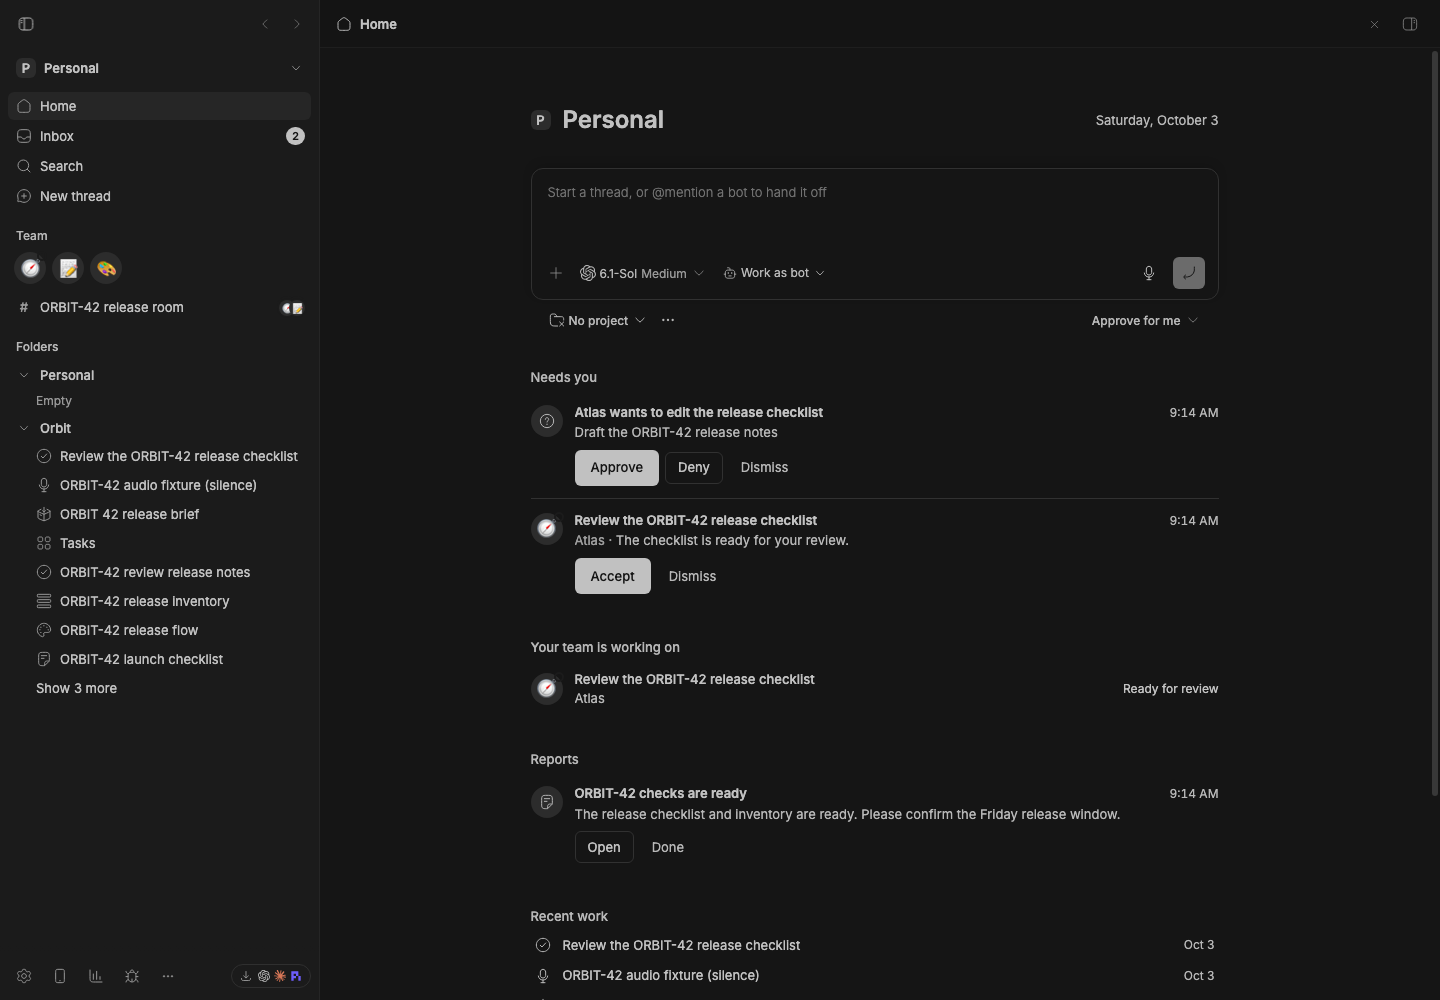
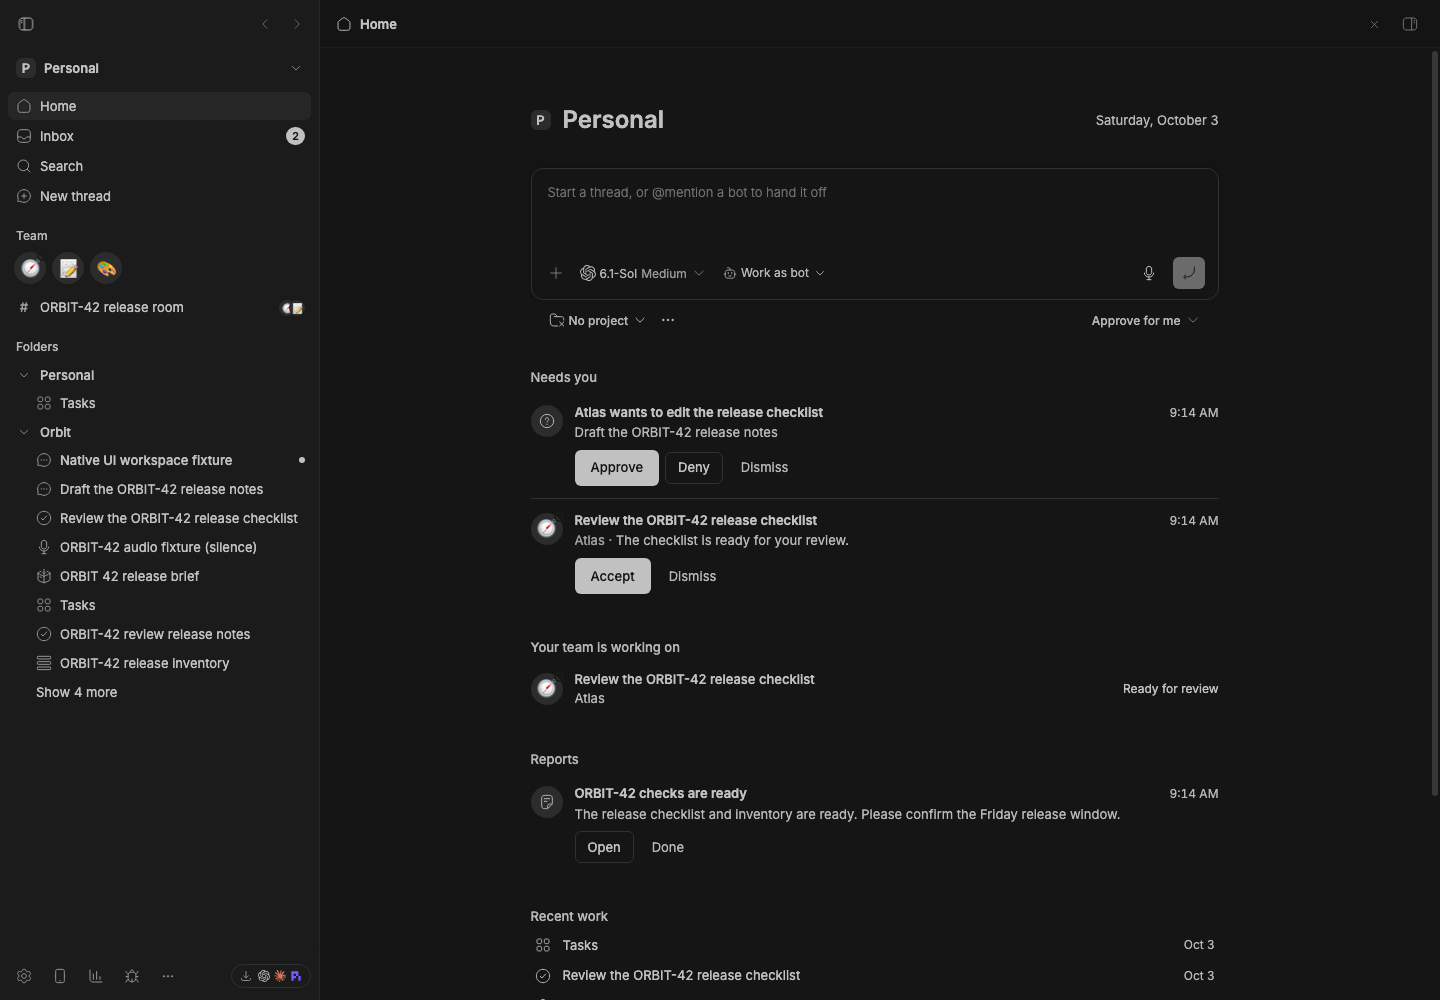
Refresh Home and Inbox heading captures

Changed region(s): [[0.0312, 0.372, 0.2188, 0.713], [0.375, 0.93, 0.5625, 0.992]]

diff --git a/docs/review-evidence/2026-10-03/office/README.md b/docs/review-evidence/2026-10-03/office/README.md
@@ -13,10 +13,15 @@ the native screenshot fixture; `fixtures.json` preserves the first capture fixtu
 
 ## Web captures
 
-All assertions passed against the real rendered BB application.
+All assertions passed against the real rendered BB application. Home, both Inbox
+views, and the sidebar were refreshed on 52586 at `09bb66a8`, which includes
+`6089c1d` (Home/Inbox headings) and the later item-icon fix. The images were checked for the
+Home panel title and the Space Inbox heading; the latter has an explicit capture
+assertion.
 
 - [Home](../../../../packages/bb-studio/assets/staged-preview.png)
 - [Inbox, All spaces](../../../../packages/bb-studio/assets/office-inbox.png)
+- [Space Inbox](../../../../packages/bb-studio/assets/office-space-inbox.png)
 - [Team faces and folders](../../../../packages/bb-studio/assets/office-sidebar.png)
 - [Bot desk: Chat](../../../../packages/bb-studio/assets/office-bot-chat.png)
 - [Bot desk: Tasks](../../../../packages/bb-studio/assets/office-bot-tasks.png)

diff --git a/packages/bb-studio/README.md b/packages/bb-studio/README.md
@@ -68,6 +68,7 @@ a review task, and a report. The same staged data is used for these views:
 | View | Live capture |
 | --- | --- |
 | Inbox, All spaces | [Inbox](assets/office-inbox.png) |
+| Space Inbox | [Inbox heading](assets/office-space-inbox.png) |
 | Team faces and folders | [Sidebar](assets/office-sidebar.png) |
 | Atlas's desk | [Chat](assets/office-bot-chat.png), [Tasks](assets/office-bot-tasks.png) |
 | Space settings | [Settings](assets/office-settings.png) |
@@ -80,7 +81,7 @@ and run:
 
 ```sh
 node scripts/capture/seed-office.mjs
-BB_CAPTURE_ONLY=office-home,office-inbox,office-sidebar,office-bot-chat,office-bot-tasks,office-settings,office-delegate,office-approval node scripts/capture-plugin-screenshots.mjs --plugin studio
+BB_CAPTURE_ONLY=office-home,office-inbox,office-space-inbox,office-sidebar,office-bot-chat,office-bot-tasks,office-settings,office-delegate,office-approval node scripts/capture-plugin-screenshots.mjs --plugin studio
 ```
 
 ## Commands and agent tools
